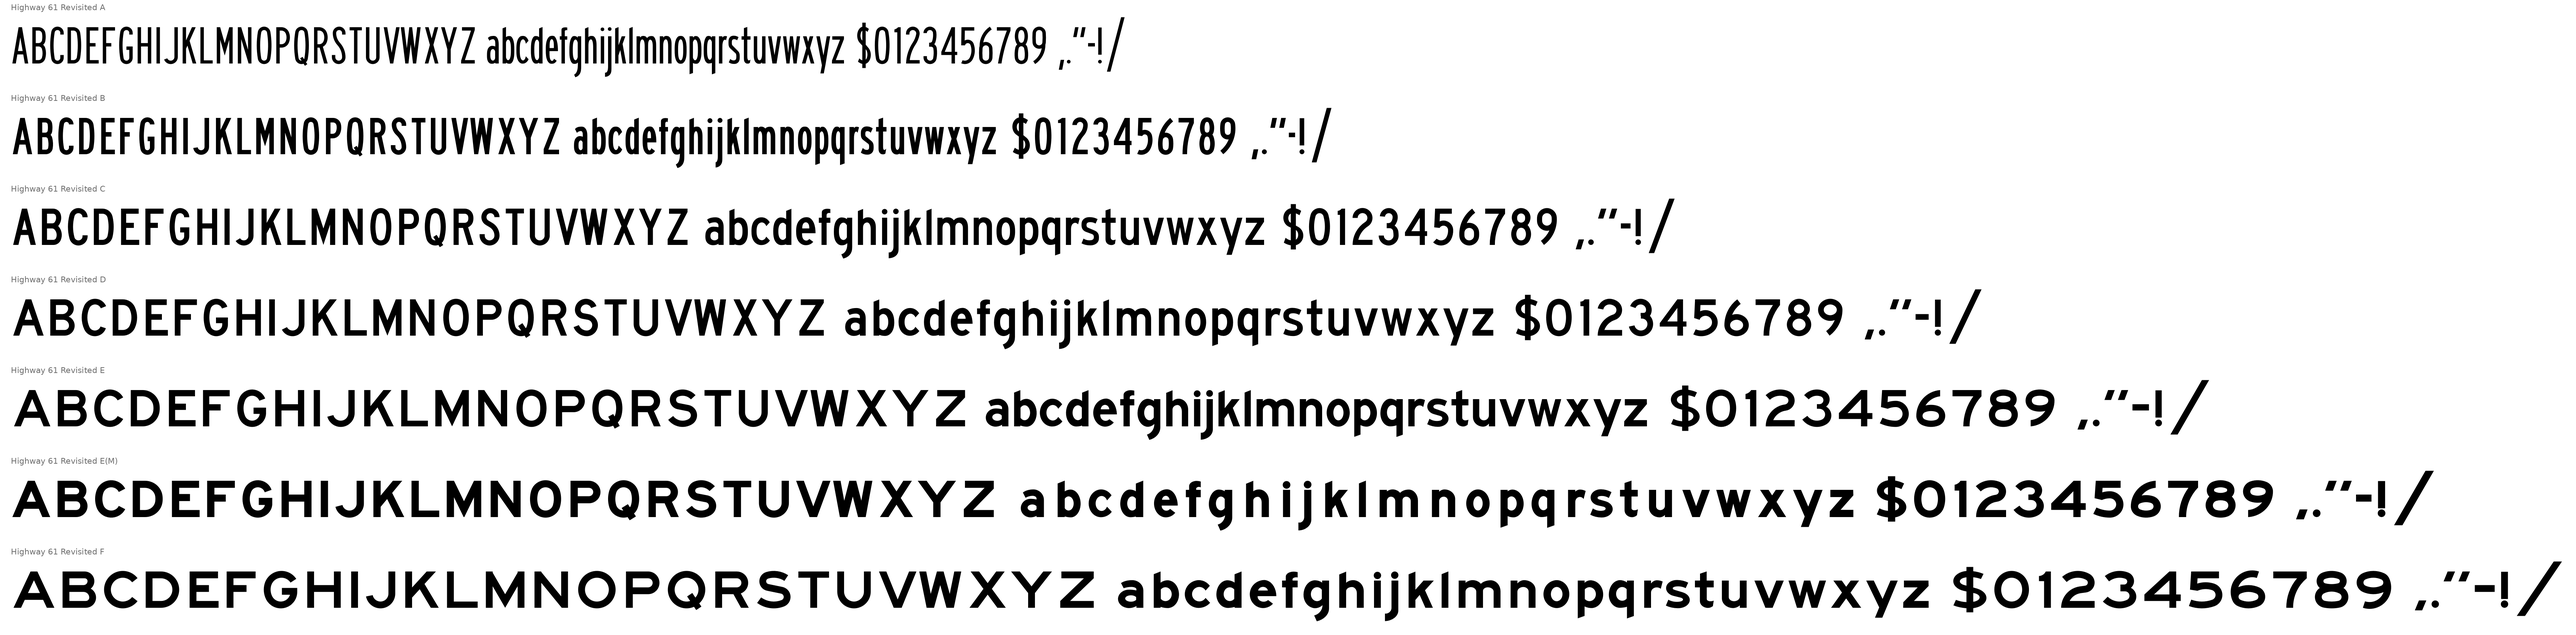
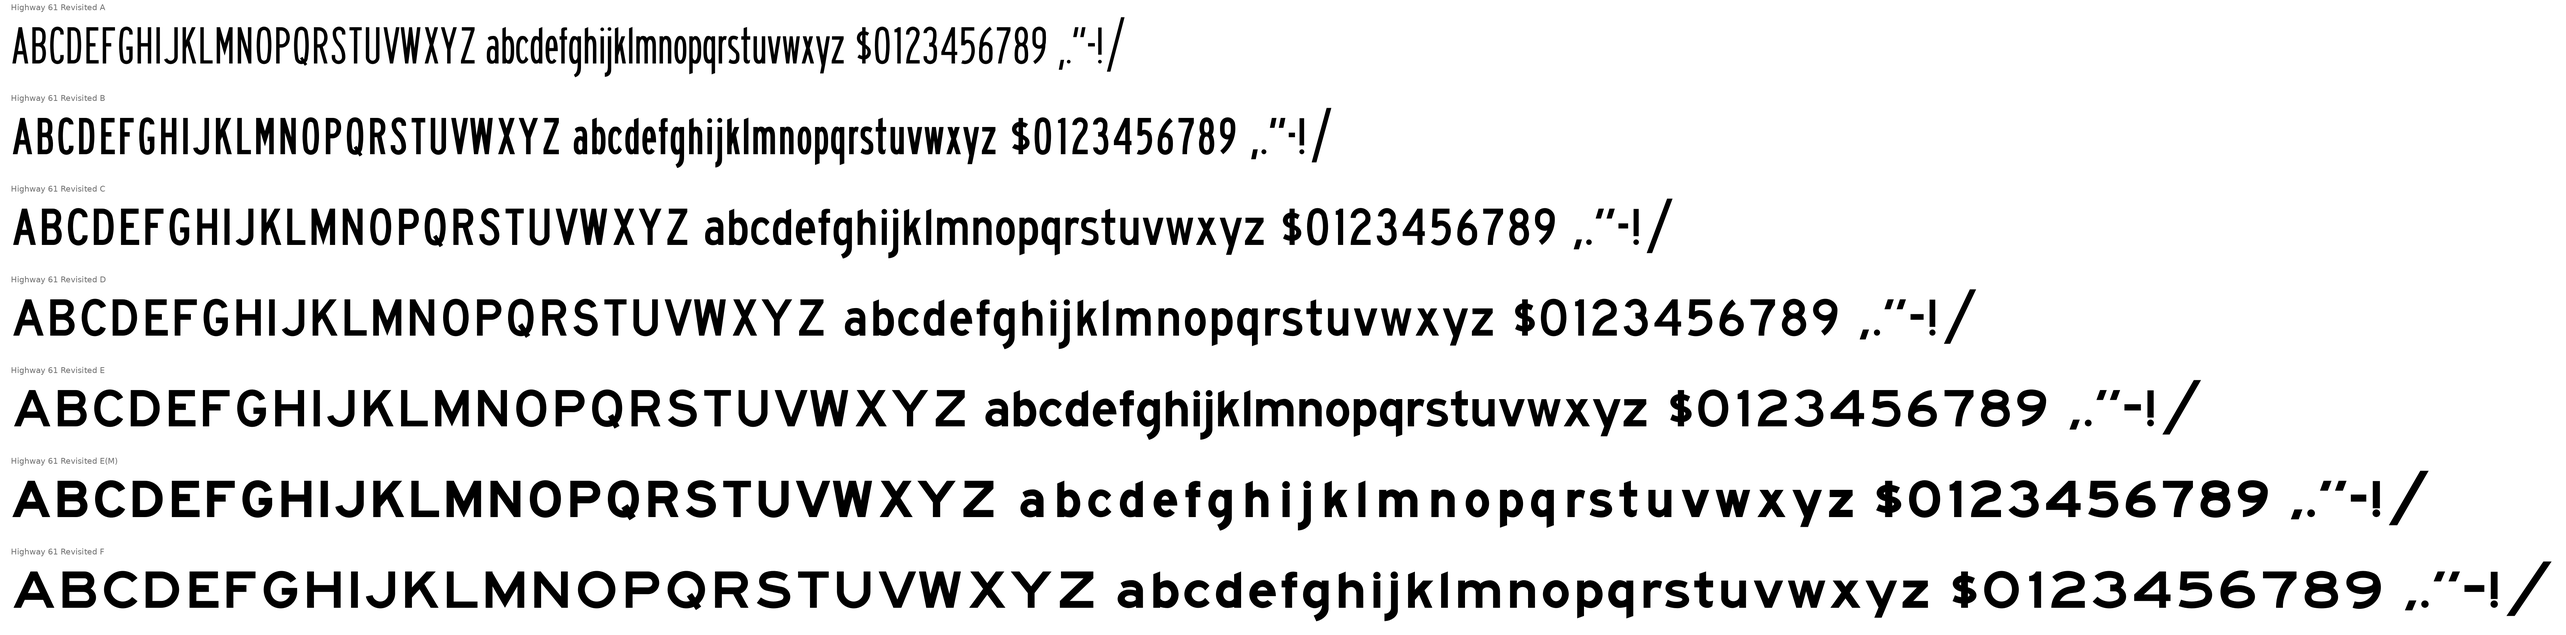
Dollar sign at the lower case's height, centred on the I
The $ is now the series' lower-case s at its own height, raised by 86.25
(an inch at 8 in) so it is centred on the capitals' height, widened just
enough that the full-stroke bar leaves 0.40 of a stroke clear in its
counters (A 1.246, B 1.375, C 1.058, D 1.014, E 1.002, E(M) 1.113; F as
drawn), strokes at the capitals' weight.  The bar runs from the baseline
to the cap line, as tall as the I.

Claude-Session: https://claude.ai/code/session_01CQ6vQQxJSnTm2c1SaBEEov

diff --git a/highway61/work/dollar.py b/highway61/work/dollar.py
@@ -1,23 +1,26 @@
-"""The dollar sign: the series' lower-case s enlarged to the figures' height, with a vertical bar through its middle.
+"""The dollar sign: the series' lower-case s, widened, at its own height and centred on the capitals' height, with a
+vertical bar through its middle.
 
 The lower case's s is symmetric, as the capitals' S is not.  The series' own s (as lccondense makes it, before its
-arcs are squared: lines and ellipses) is scaled to the capital S's ink width and to the figures' height with their
-overshoots; the width less the stroke and the height less the stroke scale (about 1.2-1.6 and 1.4: nearly uniform), and
-every edge is then moved along its normal so that every stroke is the capitals' stroke T again (strokeop's
-direction-dependent offset, as condense2 makes it).  The bar is T wide (the alphabet has no thin strokes), centred on
-the body, and stands 1/8 cap height (1 inch at 8 inches) beyond the cap line and the baseline, as on signs
-("MINIMUM FINE $250").  Where the bar would leave less than ROOM strokes clear beside it in the body's two counters
-(Series B), the body is made wider by WIDER (dollarroom.py solves it).  The outline stays exact: the bar is united
-on a fine flattening whose edges lcoutline puts back on the body's lines and ellipses.
+arcs are squared: lines and ellipses; E(M)'s as constructed) keeps its height and is raised by half the difference
+between the cap height and the x-height, (690 - 517.5)/2 = 86.25 (an inch at 8 inches), so that it is centred on the
+I.  It is widened (its width less the stroke scaled) by WIDER, and every edge then moved along its normal so that
+every stroke is the capitals' stroke T (strokeop's direction-dependent offset, as condense2 makes it; in E(M) this
+also brings the s's 134.8 to the capitals' 138).  The bar is T wide (the alphabet has no thin strokes), centred on
+the body, and stands EXT = 86.25 beyond it, so it runs from the baseline to the cap line, as tall as the I.  WIDER is
+solved (dollarroom.py) so that the bar leaves ROOM strokes clear beside it in the body's two counters.  The outline
+stays exact: the bar is united on a fine flattening whose edges lcoutline puts back on the body's lines and ellipses.
 
 make(S) -> strokeop segment contours."""
 import numpy as np
 from shapely.geometry import Polygon, box
 import strokeop, lcE, lccondense, lcoutline, vgeom
-CAP, OV = 690.0, 690 * (1 / 8) / 8            # the figures' height and overshoot (1/8 in at 8 in, 10.8 units)
-EXT = 690 / 8                                  # the bar beyond the cap line and the baseline
-ROOM = 0.40                                    # least clear space beside the bar in either counter, in strokes
-WIDER = {'B': 1.142}                             # body width over the capital S's (dollarroom.py)
+CAP, X = 690.0, 517.5
+RAISE = (CAP - X) / 2                          # the s centred on the capitals' height
+EXT = RAISE                                    # the bar beyond the s: from the baseline to the cap line
+ROOM = 0.40                                    # clear space beside the bar in the counters, in strokes
+WIDER = {'A': 1.246, 'B': 1.375, 'C': 1.058, 'D': 1.014, 'E': 1.002, 'EM': 1.113}   # the s's ink width x this, to
+                                               # leave ROOM beside the bar (dollarroom.py); F has room as it is
 def lc_s(S):
     """the series' lower-case s (segment contours, unsquared) and its stroke"""
     if S == 'EM':
@@ -37,30 +40,28 @@ def _affine(C, fx, c, b):
         out.append(cs)
     return out
 _S = {}
-def body(S, W, T):
-    """the s at the figures' height and ink width W, every stroke T"""
+def body(S, w, T):
+    """the s raised by RAISE, its ink width multiplied by w, every stroke T"""
     if S not in _S: _S[S] = lc_s(S)
-    C0, V = _S[S]; P = np.vstack(strokeop.to_polygons(C0)); lo, hi = P.min(0), P.max(0)
-    fx = (W - T) / (hi[0] - lo[0] - V); c = (CAP + 2 * OV - T) / (hi[1] - lo[1] - V)
-    b = -OV - c * lo[1] - (c * V - T) / 2      # the bottom overshoot lands on -OV after the offset
-    amt = lambda n: -(V * np.sqrt((fx * n[0]) ** 2 + (c * n[1]) ** 2) - T) / 2
+    C0, V = _S[S]; P = np.vstack(strokeop.to_polygons(C0)); W0 = P[:, 0].max() - P[:, 0].min()
+    fx = (w * W0 - T) / (W0 - V)               # the width less the stroke scales
+    amt = lambda n: -(V * np.sqrt((fx * n[0]) ** 2 + n[1] ** 2) - T) / 2
     out = []
-    for cc in _affine(C0, fx, c, b):
+    for cc in _affine(C0, fx, 1.0, RAISE):
         cc = strokeop.clean(cc); tg = [amt] * len(cc)
         cc, tg = strokeop.offset_contour(cc, tg, tags=tg); out.append(strokeop.clean(cc, tags=tg)[0])
     return out
-def width_stroke(S):
-    """the capital S's ink width and the capitals' stroke (E(M): Series E's S widened by its offset, 2 x 9.70)"""
-    g = vgeom.series('E' if S == 'EM' else S)['S']; W = g.bounds[2] - g.bounds[0]
-    return (W + (690 / 5 - lccondense.A['E']), 690 / 5) if S == 'EM' else (W, lccondense.A[S])
+def stroke(S):
+    """the capitals' stroke"""
+    return 690 / 5 if S == 'EM' else lccondense.A[S]
 def poly(C, step=0.01):
     P = Polygon()
     for r in strokeop.to_polygons(C, step=step): P = P.symmetric_difference(Polygon(r).buffer(0))
     return P
 def make(S):
-    W, T = width_stroke(S); C = body(S, W * WIDER.get(S, 1.0), T)
-    P = poly(C, step=np.radians(0.25)); x0, _, x1, _ = P.bounds; cx = (x0 + x1) / 2
-    P = vgeom.fuse(P.union(box(cx - T / 2, -EXT, cx + T / 2, CAP + EXT)))
+    T = stroke(S); C = body(S, WIDER.get(S, 1.0), T)
+    P = poly(C, step=np.radians(0.25)); x0, y0, x1, y1 = P.bounds; cx = (x0 + x1) / 2
+    P = vgeom.fuse(P.union(box(cx - T / 2, RAISE - EXT, cx + T / 2, RAISE + X + EXT)))
     prims = [np.array(sg[3], float) for c in C for sg in c if sg[0] == 'E']
     joints = [sg[1] for c in C for sg in c]
     out = []

diff --git a/highway61/work/dollarroom.py b/highway61/work/dollarroom.py
@@ -1,8 +1,8 @@
-"""The dollar sign's width in the narrow series (dollar.WIDER).  The $ (dollar.py) is the lower-case s enlarged to
-the figures' height, with a full-stroke bar through its middle; the bar stands in the body's two counters.  For each
-series this measures the clear space either side of the bar in those counters (the widest horizontal run through the
-centre line inside each counter, less the bar, halved, in strokes; the smaller of the two), and where it is less than
-dollar.ROOM solves the widening of the body that gives ROOM.
+"""The dollar sign's widening (dollar.WIDER).  The $ (dollar.py) is the lower-case s, widened, centred on the
+capitals' height, with a full-stroke bar through its middle; the bar stands in the s's two counters.  For each series
+this measures the clear space either side of the bar in those counters (the widest horizontal run through the centre
+line inside each counter, less the bar, halved, in strokes; the smaller of the two) and solves the widening of the
+s's ink width that gives dollar.ROOM.
 python3 dollarroom.py [series ...]       (default all; copy the factors into dollar.WIDER)"""
 import sys, numpy as np
 from shapely.geometry import LineString
@@ -21,8 +21,9 @@ def clearance(P, T):
         out.append((best - T) / 2 / T)
     return min(out)
 if __name__ == '__main__':
+    out = {}
     for S in sys.argv[1:] or ['A', 'B', 'C', 'D', 'E', 'EM', 'F']:
-        W, T = dollar.width_stroke(S); room = lambda w: clearance(dollar.poly(dollar.body(S, W * w, T)), T)
-        c0 = room(1.0)
-        w = 1.0 if c0 >= dollar.ROOM else brentq(lambda w: room(w) - dollar.ROOM, 1.0, 2.0, xtol=1e-4)
-        print('%-2s clearance %.3f at the S\'s width; body width x %.3f' % (S, c0, w))
+        T = dollar.stroke(S); room = lambda w: clearance(dollar.poly(dollar.body(S, w, T)), T)
+        c0 = room(1.0); w = 1.0 if c0 >= dollar.ROOM else brentq(lambda w: room(w) - dollar.ROOM, 1.0, 2.0, xtol=1e-4)
+        out[S] = round(w, 3); print('%-2s clearance %.3f as drawn; ink width x %.3f' % (S, c0, w))
+    print('WIDER =', out)

diff --git a/highway61/HANDOFF.md b/highway61/HANDOFF.md
@@ -266,19 +266,22 @@ then a piecewise-linear vertical map restores the metrics (arcs stay exact axis-
   - First made from the capital S with a bar through it (half a stroke as on the sign, then a full stroke: the
     alphabet has no thin strokes, the user), B and C's S widened to clear the bar.  The user disliked it with the
     S's asymmetry and asked for a widened lower-case s instead.
-  - `dollar.py`: the series' own lower-case s (lccondense's, before its arcs are squared; E(M)'s as constructed) is
-    scaled to the capital S's ink width and to the figures' height with their 10.8 overshoots: the width less the
-    stroke and the height less the stroke scale (x 1.2-1.6, y 1.36-1.43, nearly uniform), then every edge moves along
-    its normal by -(V sqrt(fx^2 nx^2 + c^2 ny^2) - T)/2 (condense2's rule) so every stroke is the capitals' T (138 in
-    E(M)).  (Scaling E(M)'s s to every width instead thinned A and B's diagonal spine and tilted their terminal cuts.)
-    The bar is T wide and stands 1/8 cap height beyond the cap line and baseline.  The union is made on a fine
-    flattening and `lcoutline.contours` puts its edges back on the body's lines and ellipses; specks of line it
-    leaves where an arc meets an arc or the spine are closed up at the body's own joint, so the outline is exact.
-  - `dollarroom.py` measures the clear space either side of the bar in the two counters (strokes; the smaller): at
-    the S's width A 0.40, B 0.26, C 0.50, D 0.68, E 0.83, E(M) 0.64, F 0.91.  `dollar.ROOM` = 0.40 (A's, the
-    narrowest that does not collide); B's body is widened to it, `dollar.WIDER` B 1.142.
-  - In D and E the bar's edge crosses the body 1-4 units short of a joint; `strokecheck.py` allows short pieces that
-    end on the $'s bar edge.
+  - Then the series' own lower-case s scaled to the capital S's width and the figures' height (nearly uniformly,
+    about 1.4), strokes brought back to weight.  (Scaling E(M)'s s to every width instead thinned A and B's diagonal
+    spine and tilted their terminal cuts.)  The user then asked for it at the lower case's height, centred on the I.
+  - `dollar.py` (now): the series' own s (lccondense's, before its arcs are squared; E(M)'s as constructed), raised
+    by (690 - 517.5)/2 = 86.25 (an inch at 8 in) so it is centred on the capitals' height, widened by `dollar.WIDER`
+    (width less stroke scaled), then every edge moved along its normal by -(V sqrt(fx^2 nx^2 + ny^2) - T)/2
+    (condense2's rule) so every stroke is the capitals' T (in E(M) the s's 134.8 becomes 138).  The bar is T wide and
+    stands 86.25 beyond the s, so it runs exactly from the baseline to the cap line, as tall as the I.  The union is
+    made on a fine flattening and `lcoutline.contours` puts its edges back on the body's lines and ellipses; specks
+    of line it leaves where an arc meets an arc or the spine are closed up at the body's own joint (exact outline).
+  - `dollarroom.py` measures the clear space either side of the bar in the s's two counters (strokes; the smaller):
+    as drawn A 0.20, B 0.07, C 0.33, D 0.38, E 0.40, E(M) 0.25, F 0.44.  Each s is widened until it is
+    `dollar.ROOM` = 0.40: `WIDER` A 1.246, B 1.375, C 1.058, D 1.014, E 1.002, E(M) 1.113; F, with room, is left as
+    drawn (never narrowed).
+  - `strokecheck.py` allows short pieces that end on the $'s bar edge (the bar can cross the body just short of a
+    joint).
 - Series E lower case (`build1961.py E`): the opposite change, offset by -9.70, then a vertical map in three bands
   (below the baseline shifted down by d, baseline to x-height stretched by X/(X-2d), above shifted up by d) so the
   baseline, x-height, ascender and descenders stay on their lines.  No pre-digital Series E lower case exists to

diff --git a/README.md b/README.md
@@ -104,7 +104,7 @@ The punctuation is derived from each font's own letters, so it follows the serie
 | exclamation point | the i turned upside down |
 | double quotes | two single quotes, half a stroke apart |
 | hyphen | the H's crossbar |
-| dollar sign | the lower-case s (symmetric, as the capital S is not) enlarged to the figures' height and the capital S's width, every stroke brought back to the capitals' stroke, with a full-stroke bar through its middle standing 1/8 cap height beyond the cap line and baseline, as on signs (`work/dollar.py`); Series B's is 1.142 wider, to leave room beside the bar (`work/dollarroom.py`); spaced with the S's side bearings |
+| dollar sign | the lower-case s (symmetric, as the capital S is not) at its own height, raised to be centred on the I, widened to leave room for a full-stroke bar through its middle (`work/dollarroom.py`), strokes at the capitals' weight; the bar runs from the baseline to the cap line (`work/dollar.py`); spaced with the S's side bearings |
 
 ## Extrapolation to other widths and weights
 
